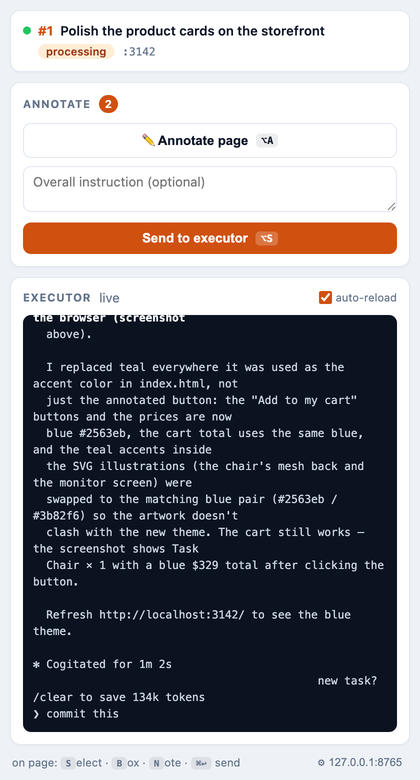
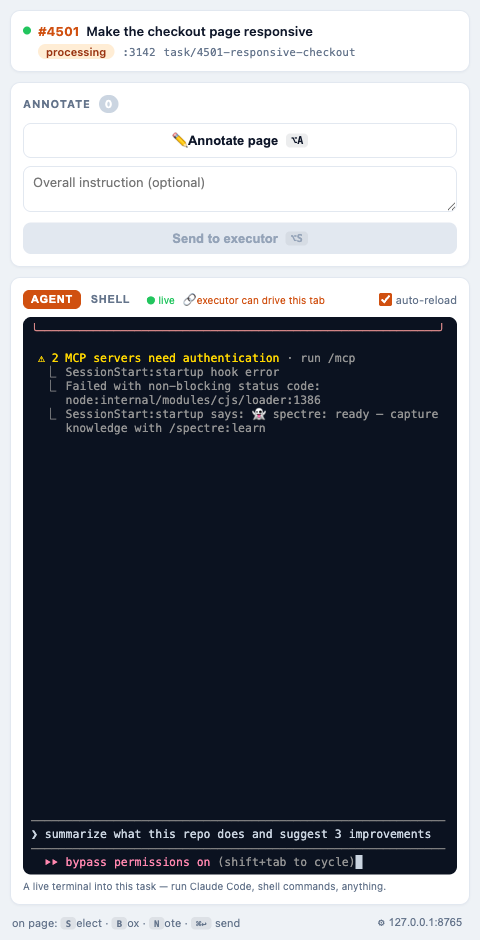
ty-chrome: fix terminal init crash + refresh README screenshot
buildTerm() observed `$('term-wrap')`, but that element only has a class
(not an id), so getElementById returned null and ResizeObserver.observe(null)
threw — leaving the terminal stuck on "Connecting…". Observe the host's
parent (the sized wrapper) instead, and guard buildTerm so any init failure
surfaces a retry overlay rather than a swallowed unhandled rejection.

Caught by end-to-end verification: an isolated ty serve + a task window
running real Claude Code and a real shell, driven through the loaded
extension in Chrome. Also replaces the stale README side-panel screenshot
with the live embedded Claude Code terminal.

diff --git a/extensions/ty-chrome/sidepanel.js b/extensions/ty-chrome/sidepanel.js
@@ -218,7 +218,8 @@ function buildTerm() {
     termResizeObs = new ResizeObserver(() => {
       try { fit && fit.fit(); } catch {}
     });
-    termResizeObs.observe($('term-wrap'));
+    // Observe the sized wrapper (the host is inset:0 within it).
+    termResizeObs.observe(host.parentElement || host);
   }
   return term;
 }
@@ -311,7 +312,13 @@ async function openTerminalSocket(taskId) {
     showTermOverlay('Waiting for ty serve…', 'Retry', attachTerminal);
     return;
   }
-  const t = buildTerm();
+  let t;
+  try {
+    t = buildTerm();
+  } catch (e) {
+    showTermOverlay('Terminal failed to initialize: ' + e.message, 'Retry', attachTerminal);
+    return;
+  }
   if (!t) return;
 
   const wsBase = serverUrl.replace(/^http/, 'ws');